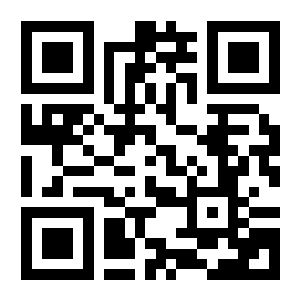
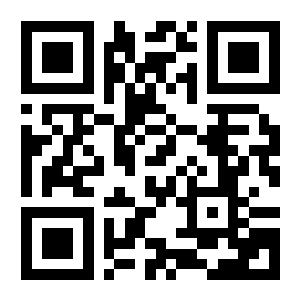
save

diff --git a/src/components/Contact.jsx b/src/components/Contact.jsx
@@ -1,5 +1,5 @@
 import React from "react";
-import qrCodeImg from '../assets/qrCode.png';
+import qrCode from '../assets/qrCode.png';
 import whatsImg from '../assets/whatsImg.png';
 
 function Contact() {
@@ -18,11 +18,11 @@ function Contact() {
                     </p>
                     <div className="flex">
                         Number: +55 (47)99237-1998
-                        <a rel="noreferrer" href="https://wa.link/16qptx" target="_blank">
+                        <a rel="noreferrer" href="https://wa.link/lzj3ih" target="_blank">
                             <img className="h-6 ml-2" src={whatsImg} alt="whatsImg"/>
                         </a> 
                     </div>
-                    <img src={qrCodeImg} alt="qrCode" className='rounded-2xl mt-8' />
+                    <img src={qrCode} alt="qrCode" className='rounded-2xl mt-8' />
                 </div>
 
             </div>
